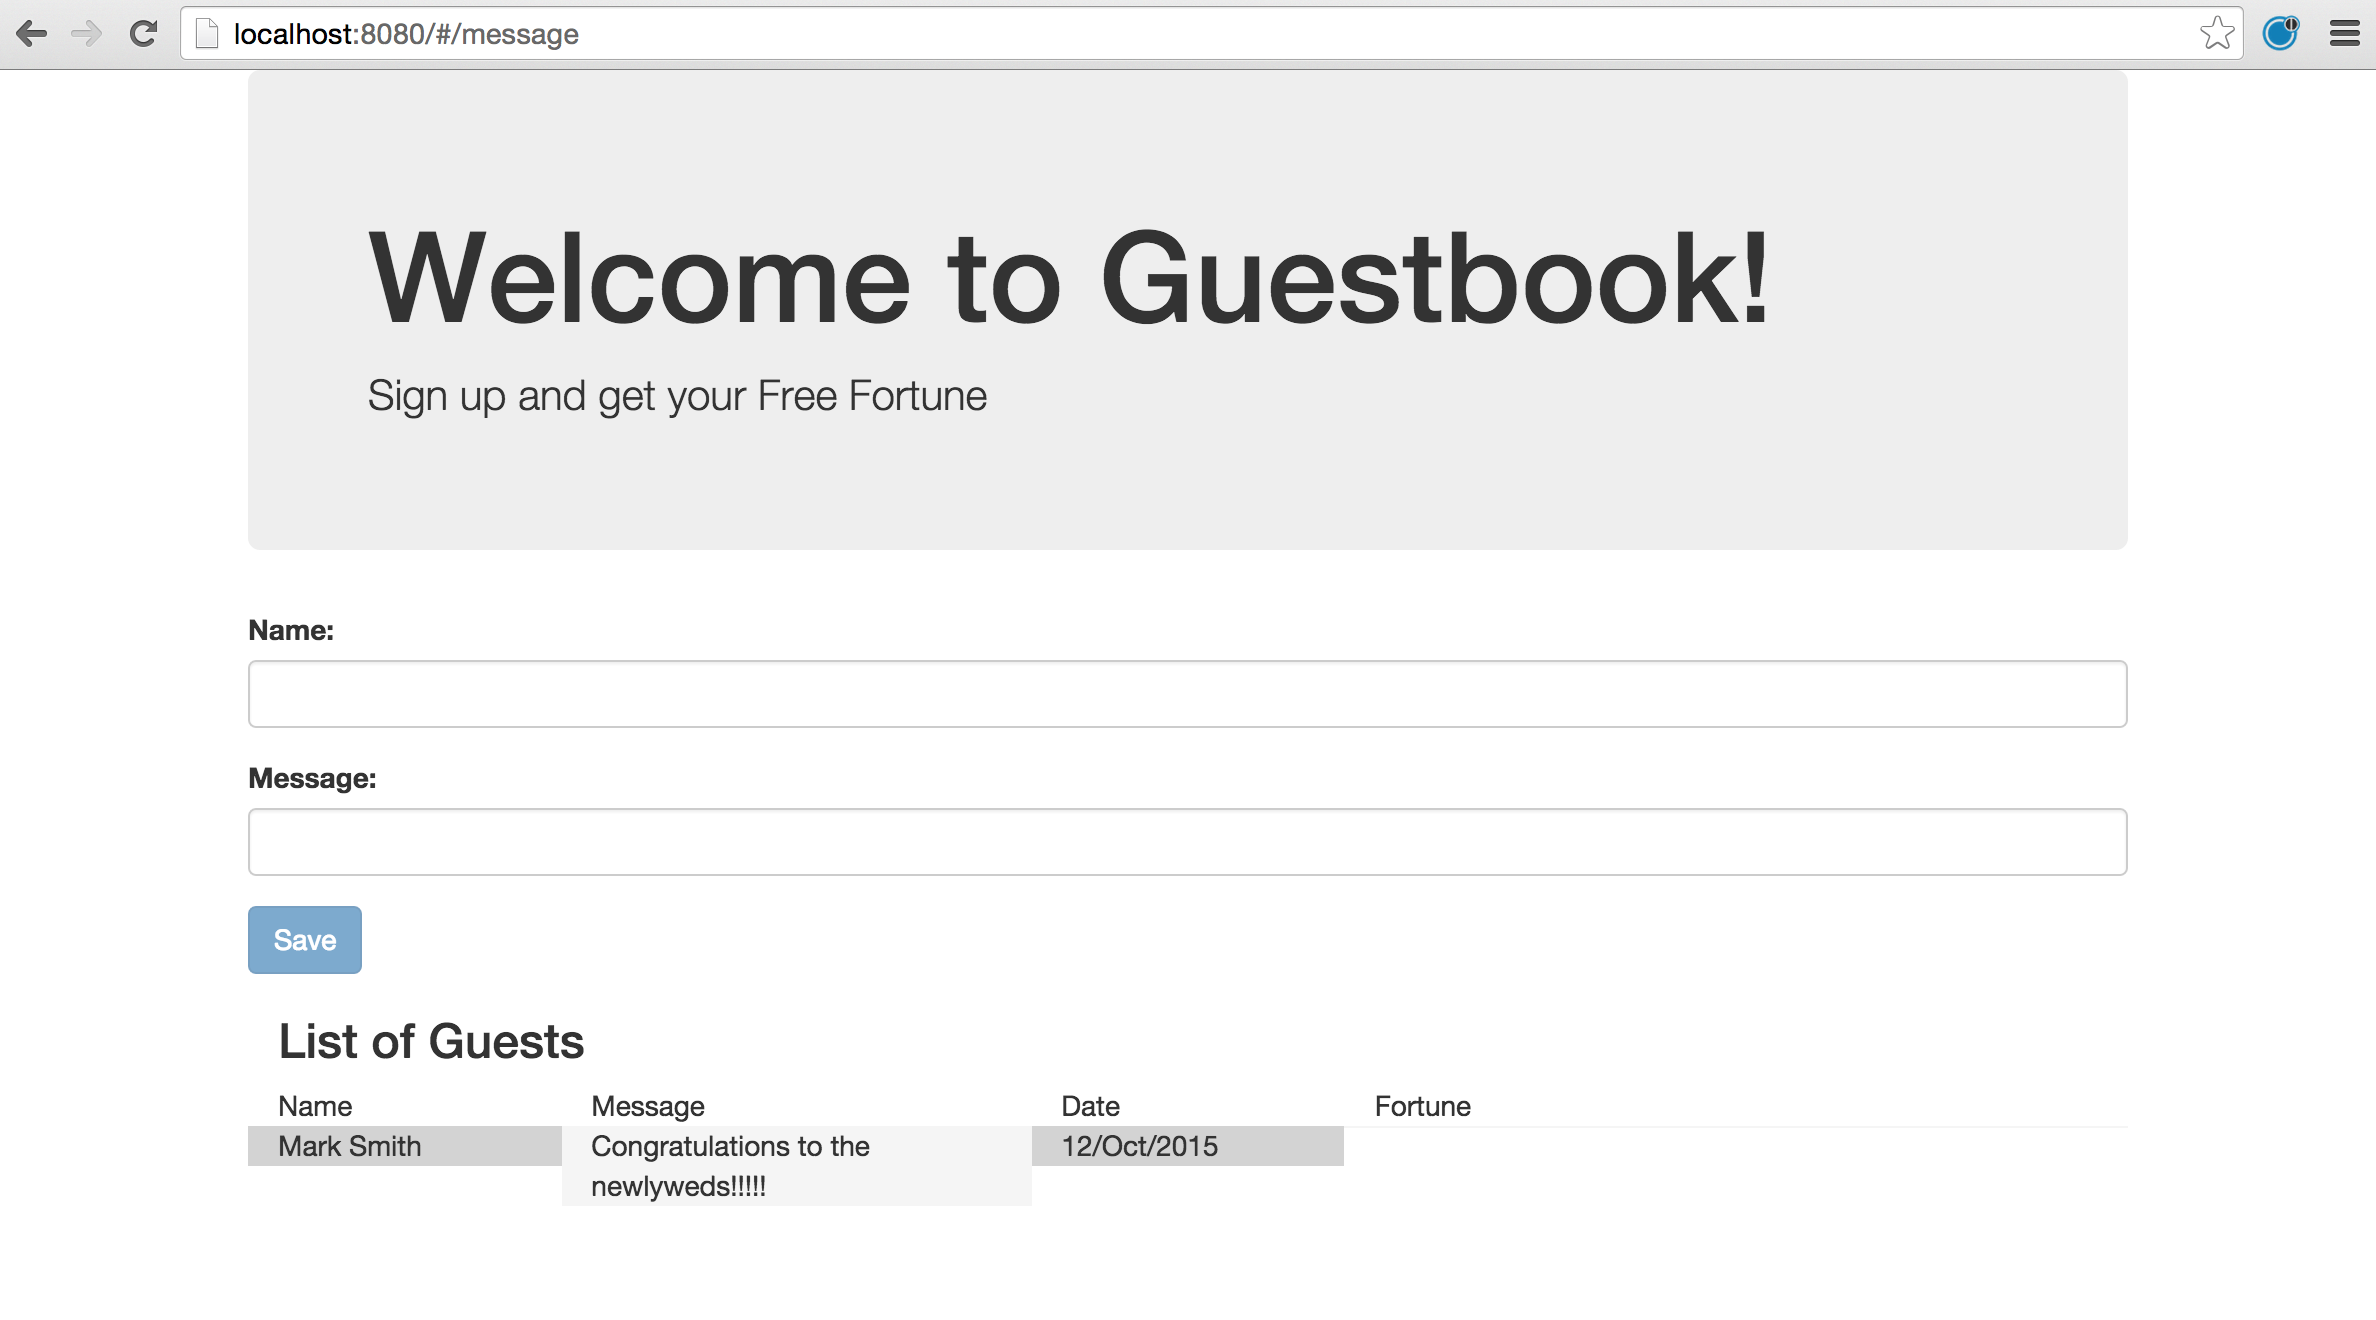
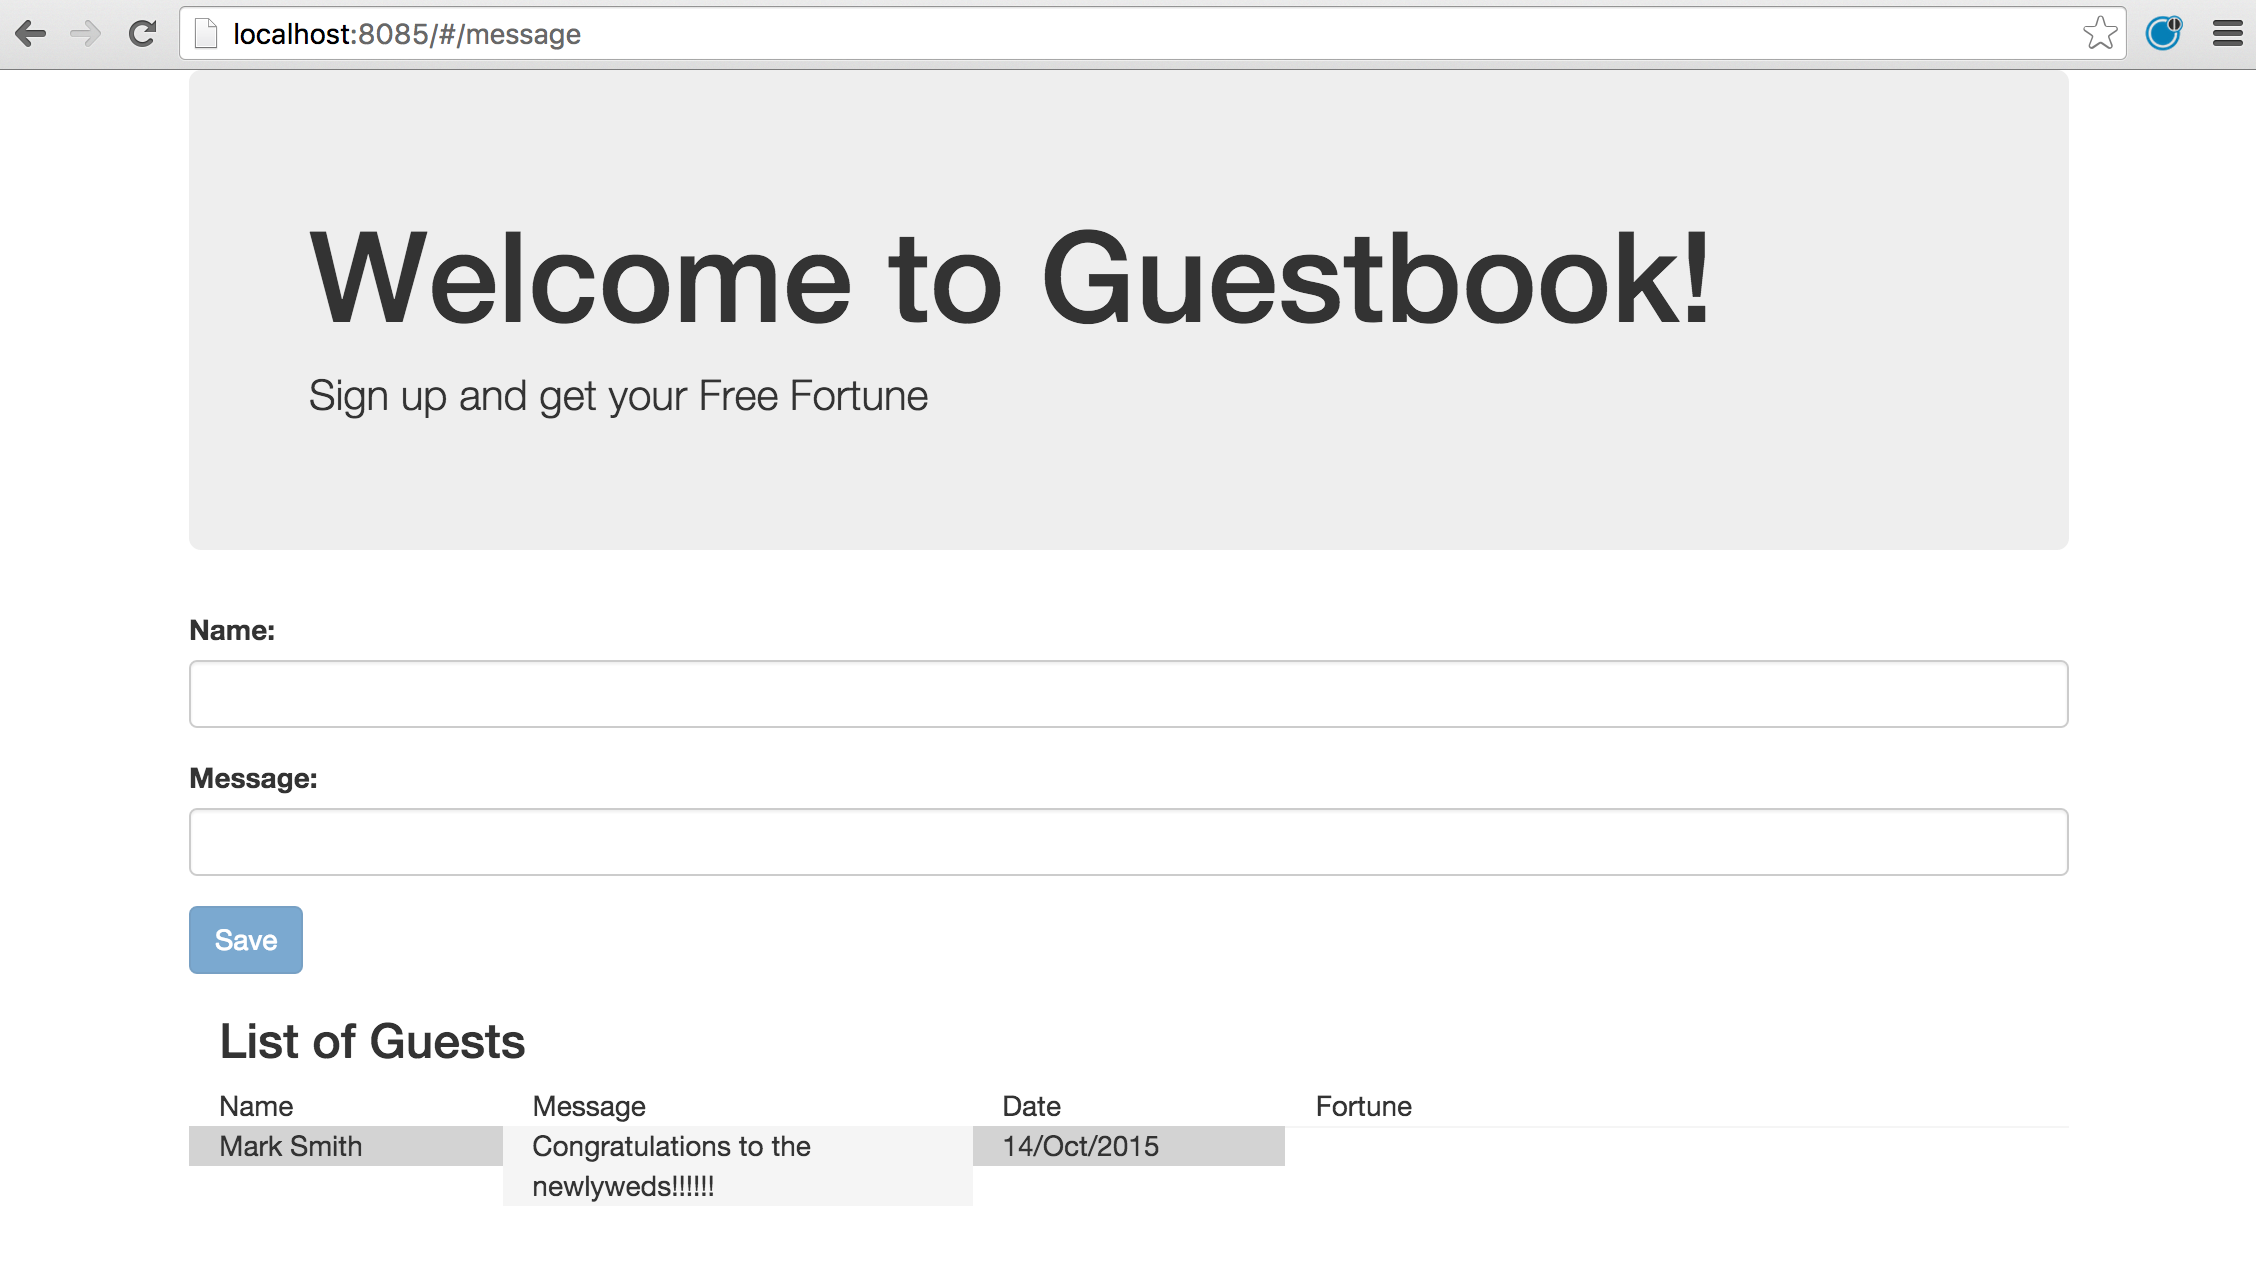
Change port in doc.

diff --git a/lab_03.html b/lab_03.html
@@ -647,7 +647,7 @@ public class GuestbookController {
 </div>
 </li>
 <li>
-<p>Browse to <a href="http://localhost:8080" class="bare">http://localhost:8080</a>.
+<p>Browse to <a href="http://localhost:8085" class="bare">http://localhost:8085</a>.
 You should see output similar to the following:</p>
 <div class="imageblock">
 <div class="content">
@@ -706,7 +706,7 @@ You should see output similar to the following:</p>
 </div>
 <div id="footer">
 <div id="footer-text">
-Last updated 2015-10-14 14:21:42 EDT
+Last updated 2015-10-14 16:02:56 EDT
 </div>
 </div>
 </body>
